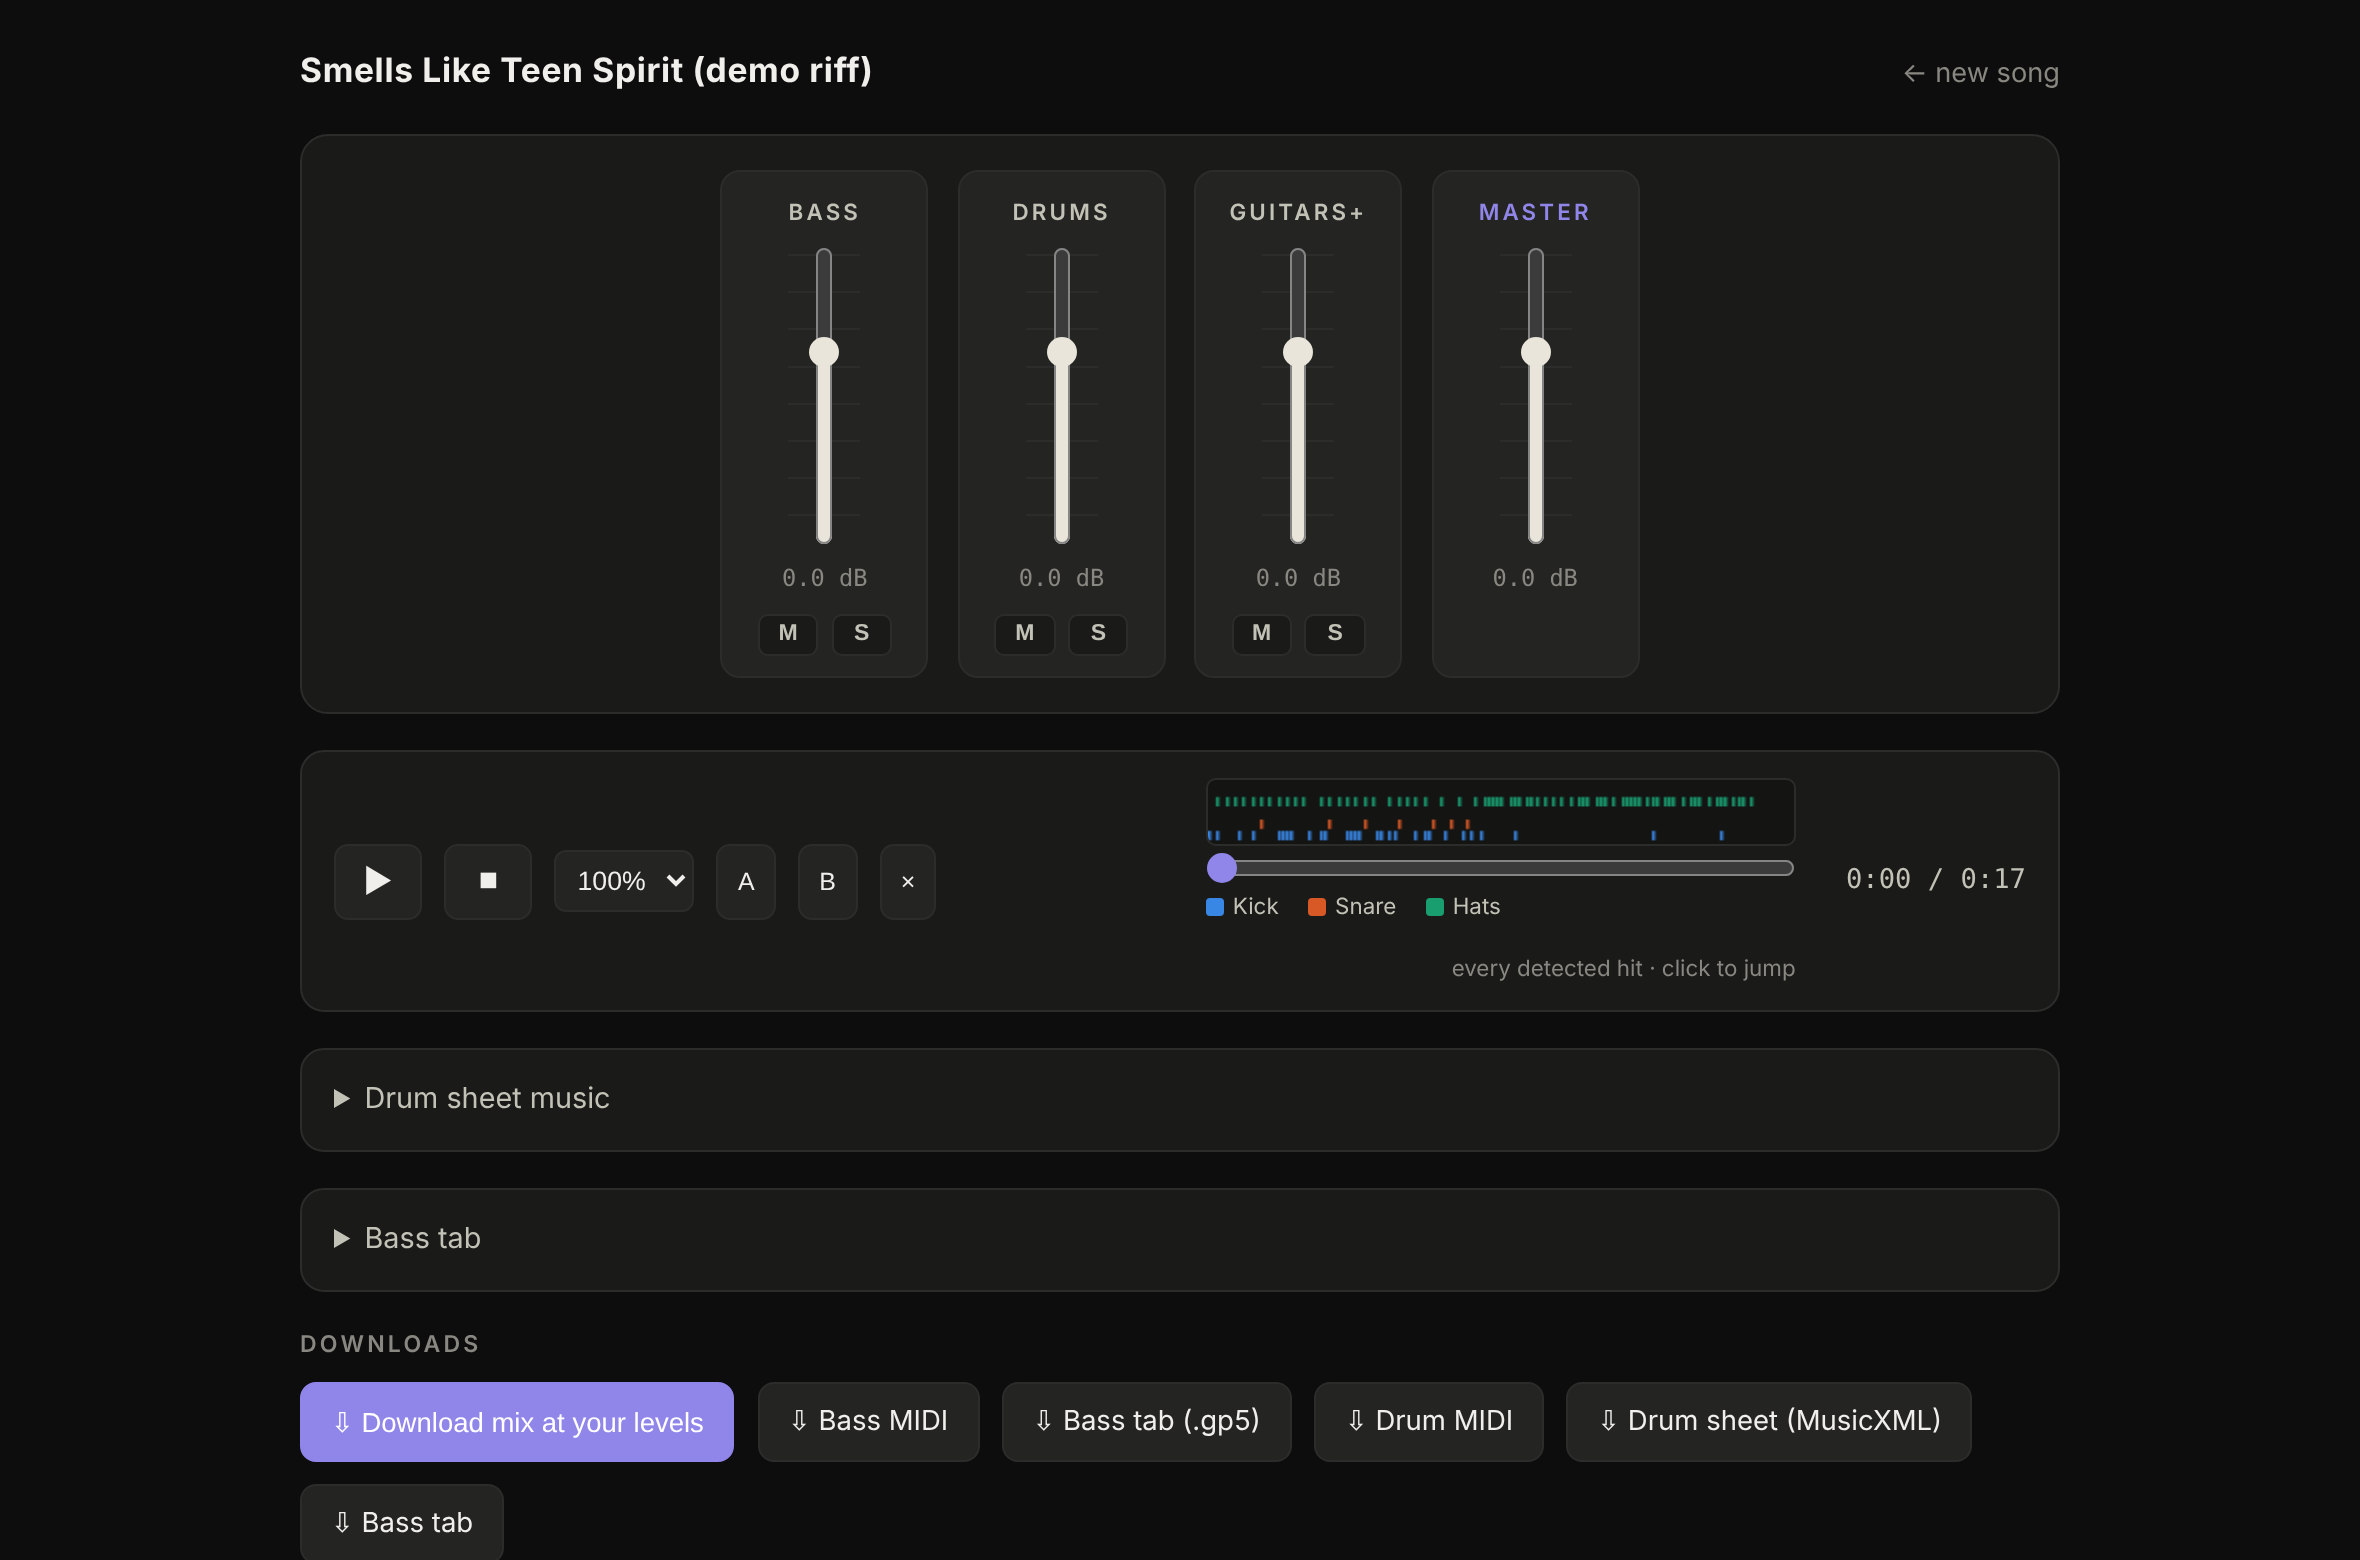
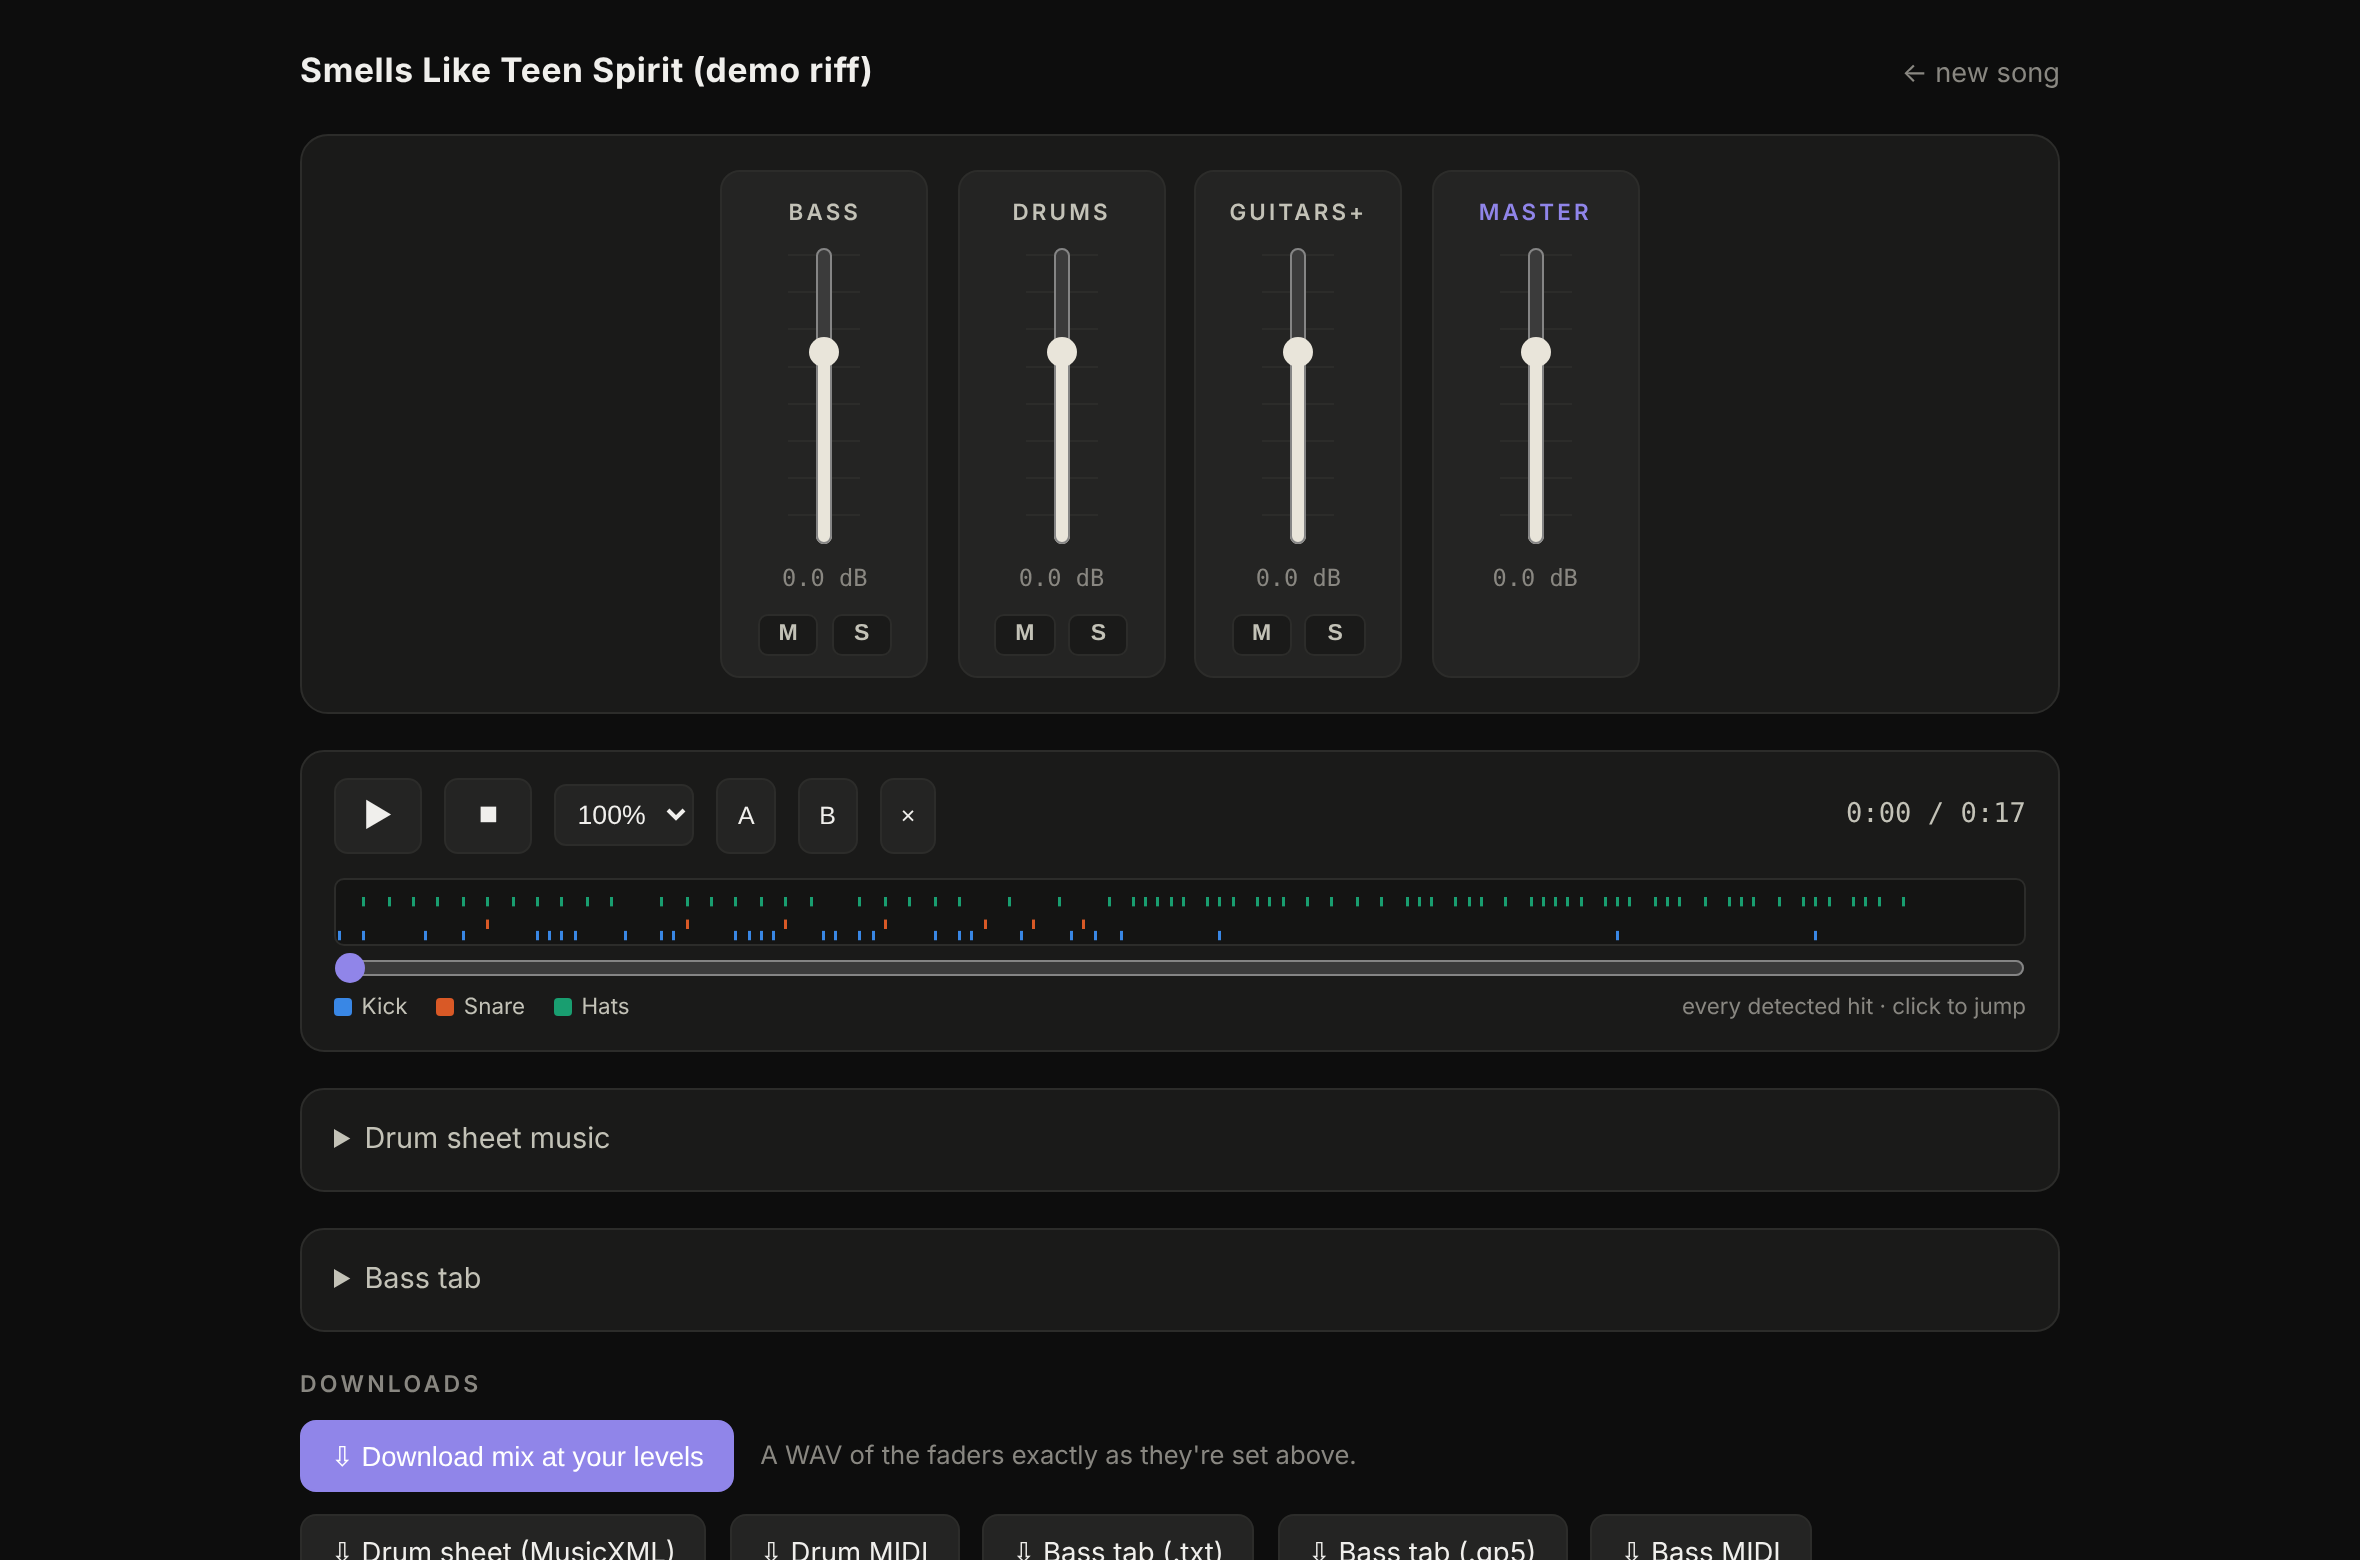
Hit window: draw at device pixel ratio; refresh README media
The canvas backing store matched CSS pixels, so on Retina screens the
hit marks were upscaled and soft. Screenshots and GIFs regenerated
with the corrected bar phase (the chart now opens on beat one) and the
full-width hit window.

diff --git a/drum_extractor/web/templates/mixer.html b/drum_extractor/web/templates/mixer.html
@@ -316,9 +316,15 @@ function drawHitStrip() {
   const canvas = document.getElementById('hitstrip');
   const hits = (state.timing && state.timing.drum_hits) || [];
   const W = canvas.clientWidth || canvas.parentElement.clientWidth || 600;
-  canvas.width = W;  // match CSS pixels so markers line up with the seek bar
+  const H = 34;
+  // Backing store at device pixels (sharp on Retina); drawing stays in CSS
+  // pixels so markers line up with the seek bar.
+  const dpr = window.devicePixelRatio || 1;
+  canvas.width = Math.round(W * dpr);
+  canvas.height = Math.round(H * dpr);
   const ctx = canvas.getContext('2d');
-  ctx.clearRect(0, 0, W, canvas.height);
+  ctx.setTransform(dpr, 0, 0, dpr, 0, 0);
+  ctx.clearRect(0, 0, W, H);
   if (!hits.length || !state.duration) {
     canvas.style.display = 'none';
     document.getElementById('hitlegend').style.display = 'none';
